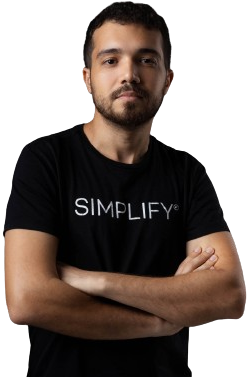
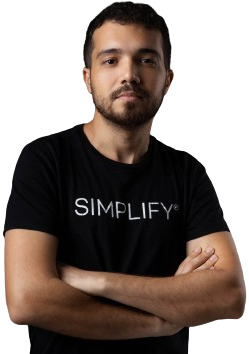
falta portfolios

diff --git a/css/style.css b/css/style.css
@@ -1,5 +1,5 @@
 @import url('https://fonts.googleapis.com/css2?family=Orbitron:wght@400;500;600;700;800;900&display=swap');
-@import url('https://fonts.googleapis.com/css2?family=Roboto:wght@400;500&display=swap');
+@import url('https://fonts.googleapis.com/css2?family=Roboto:wght@400;500;700;800&display=swap');
 @import url('https://fonts.googleapis.com/css2?family=Hind:wght@300;400;500;600;700&display=swap');
 @import url('https://fonts.googleapis.com/css2?family=Manrope:wght@200;300;400;500;600;700;800&display=swap');
 
@@ -495,8 +495,8 @@ main {
 .apresentacao-principal img {
     position: absolute;
     bottom: 12vh;
-    right: 30px;
-    height: 86vh;
+    right: -10px;
+    height: 89vh;
     min-height: 400px;
     user-select: none;
     transition: transform 1.5s ease-out;
@@ -505,11 +505,11 @@ main {
 .apresentacao-principal h1 {
     font-family: 'Manrope', sans-serif;
     color: white;
-    font-weight: 700;
-    font-size: 52px;
-    line-height: 1.2em;
+    font-weight: 800;
+    font-size: 58px;
+    line-height: 1.26em;
     position: absolute;
-    top: 45%;
+    top: 44%;
     transform: translateY(-50%);
     left: 10%;
     z-index: 998;
@@ -847,23 +847,27 @@ main {
 .servico h1 {
     width: fit-content;
     flex: 0.7;
-    font-size: 24px;
+    font-size: 27px;
     user-select: none;
-    font-weight: 600;
-    letter-spacing: 0.02em;
+    line-height: 1.7em;
+    font-weight: 700;
+    letter-spacing: 0.12em;
+    font-family: 'Roboto', sans-serif;
 }
 
 .servico.left h1 {
     padding-right: 50px;
-    font-size: 30px;
+    font-size: 32px;
+    line-height: 1.2em;
 }
 
 .servico.last h1 {
-    font-size: 28px;
+    font-size: 32px;
 }
 
 .servico.right h1 {
-    padding-left: 60px;
+    padding-left: 40px;
+    font-weight: 700;
 }
 
 .video-servico {

diff --git a/index.html b/index.html
@@ -147,14 +147,14 @@
 
                 <p class="cargo">Felipe Passos | Desenvolvedor Full Stack</p>
                 <img src="./img/felipe_passos.png" alt="">
-                <h1>Soluções Web que<br>Potencializarão<br>Seu Negócio</h1>
+                <h1>Soluções que<br>Potencializarão<br>Seu Negócio</h1>
                 <div class="contato-submit-box">
                     <button id="contato-submit" class="contato-submit">Fale Conosco</button>
                 </div>
                 <div class="descricao">
-                    <p>Desenvolvedor web criativo, especialista na elaboração desde Landing Pages de alto padrão, até
-                        Aplicações Web
-                        completas e sob medida.</p>
+                    <p>Desenvolvedor web e mobile criativo, especialista na elaboração desde Landing Pages de alto padrão, até
+                        Softwares
+                        completos e sob medida.</p>
                 </div>
             </div>
 
@@ -252,7 +252,7 @@
 
             <div class="section-content">
                 <div class="servico left" data-id="sites">
-                    <h1 style="margin-bottom: 15px;">Sites e Landing Pages</h1>
+                    <h1 style="margin-bottom: 15px;">Websites e Landing Pages</h1>
                     <div class="video-servico">
                         <video autoplay muted loop width="100%">
                             <source src="./videos/designer.mp4" type="video/mp4">

diff --git a/js/move-img.js b/js/move-img.js
@@ -2,7 +2,7 @@ const container = document.querySelector('body');
 const img = document.querySelector('.apresentacao-principal img');
 
 container.addEventListener('mousemove', (e) => {
-    const xOffset = (e.clientX / container.offsetWidth - 0.5) * 25; // Calcula o deslocamento horizontal
-    const yOffset = (e.clientY / container.offsetHeight - 0.5) * 12; // Calcula o deslocamento vertical
+    const xOffset = (e.clientX / container.offsetWidth - 0.5) * 18; // Calcula o deslocamento horizontal
+    const yOffset = (e.clientY / container.offsetHeight - 0.5) * 6; // Calcula o deslocamento vertical
     img.style.transform = `translate(${xOffset}px, ${yOffset}px)`; // Aplica a transformação na imagem
 });

diff --git a/js/cursor.js b/js/cursor.js
@@ -5,7 +5,7 @@ portfolios.forEach(portfolio => {
   // Crie um elemento para representar o círculo
   const circle = document.createElement('div');
   circle.classList.add('custom-cursor');
-  circle.textContent = 'Clique aqui';
+  circle.textContent = 'Ver Projeto';
   portfolio.appendChild(circle);
 
   // Calcule o deslocamento necessário para centralizar o círculo

diff --git a/css/wave.css b/css/wave.css
@@ -13,7 +13,7 @@
     position: relative;
     width: 100%;
     height: 15vh;
-    margin-top: 100px;
+    margin-top: 115px;
     margin-bottom: -7px;
     /*Fix for safari gap*/
     min-height: 100px;
